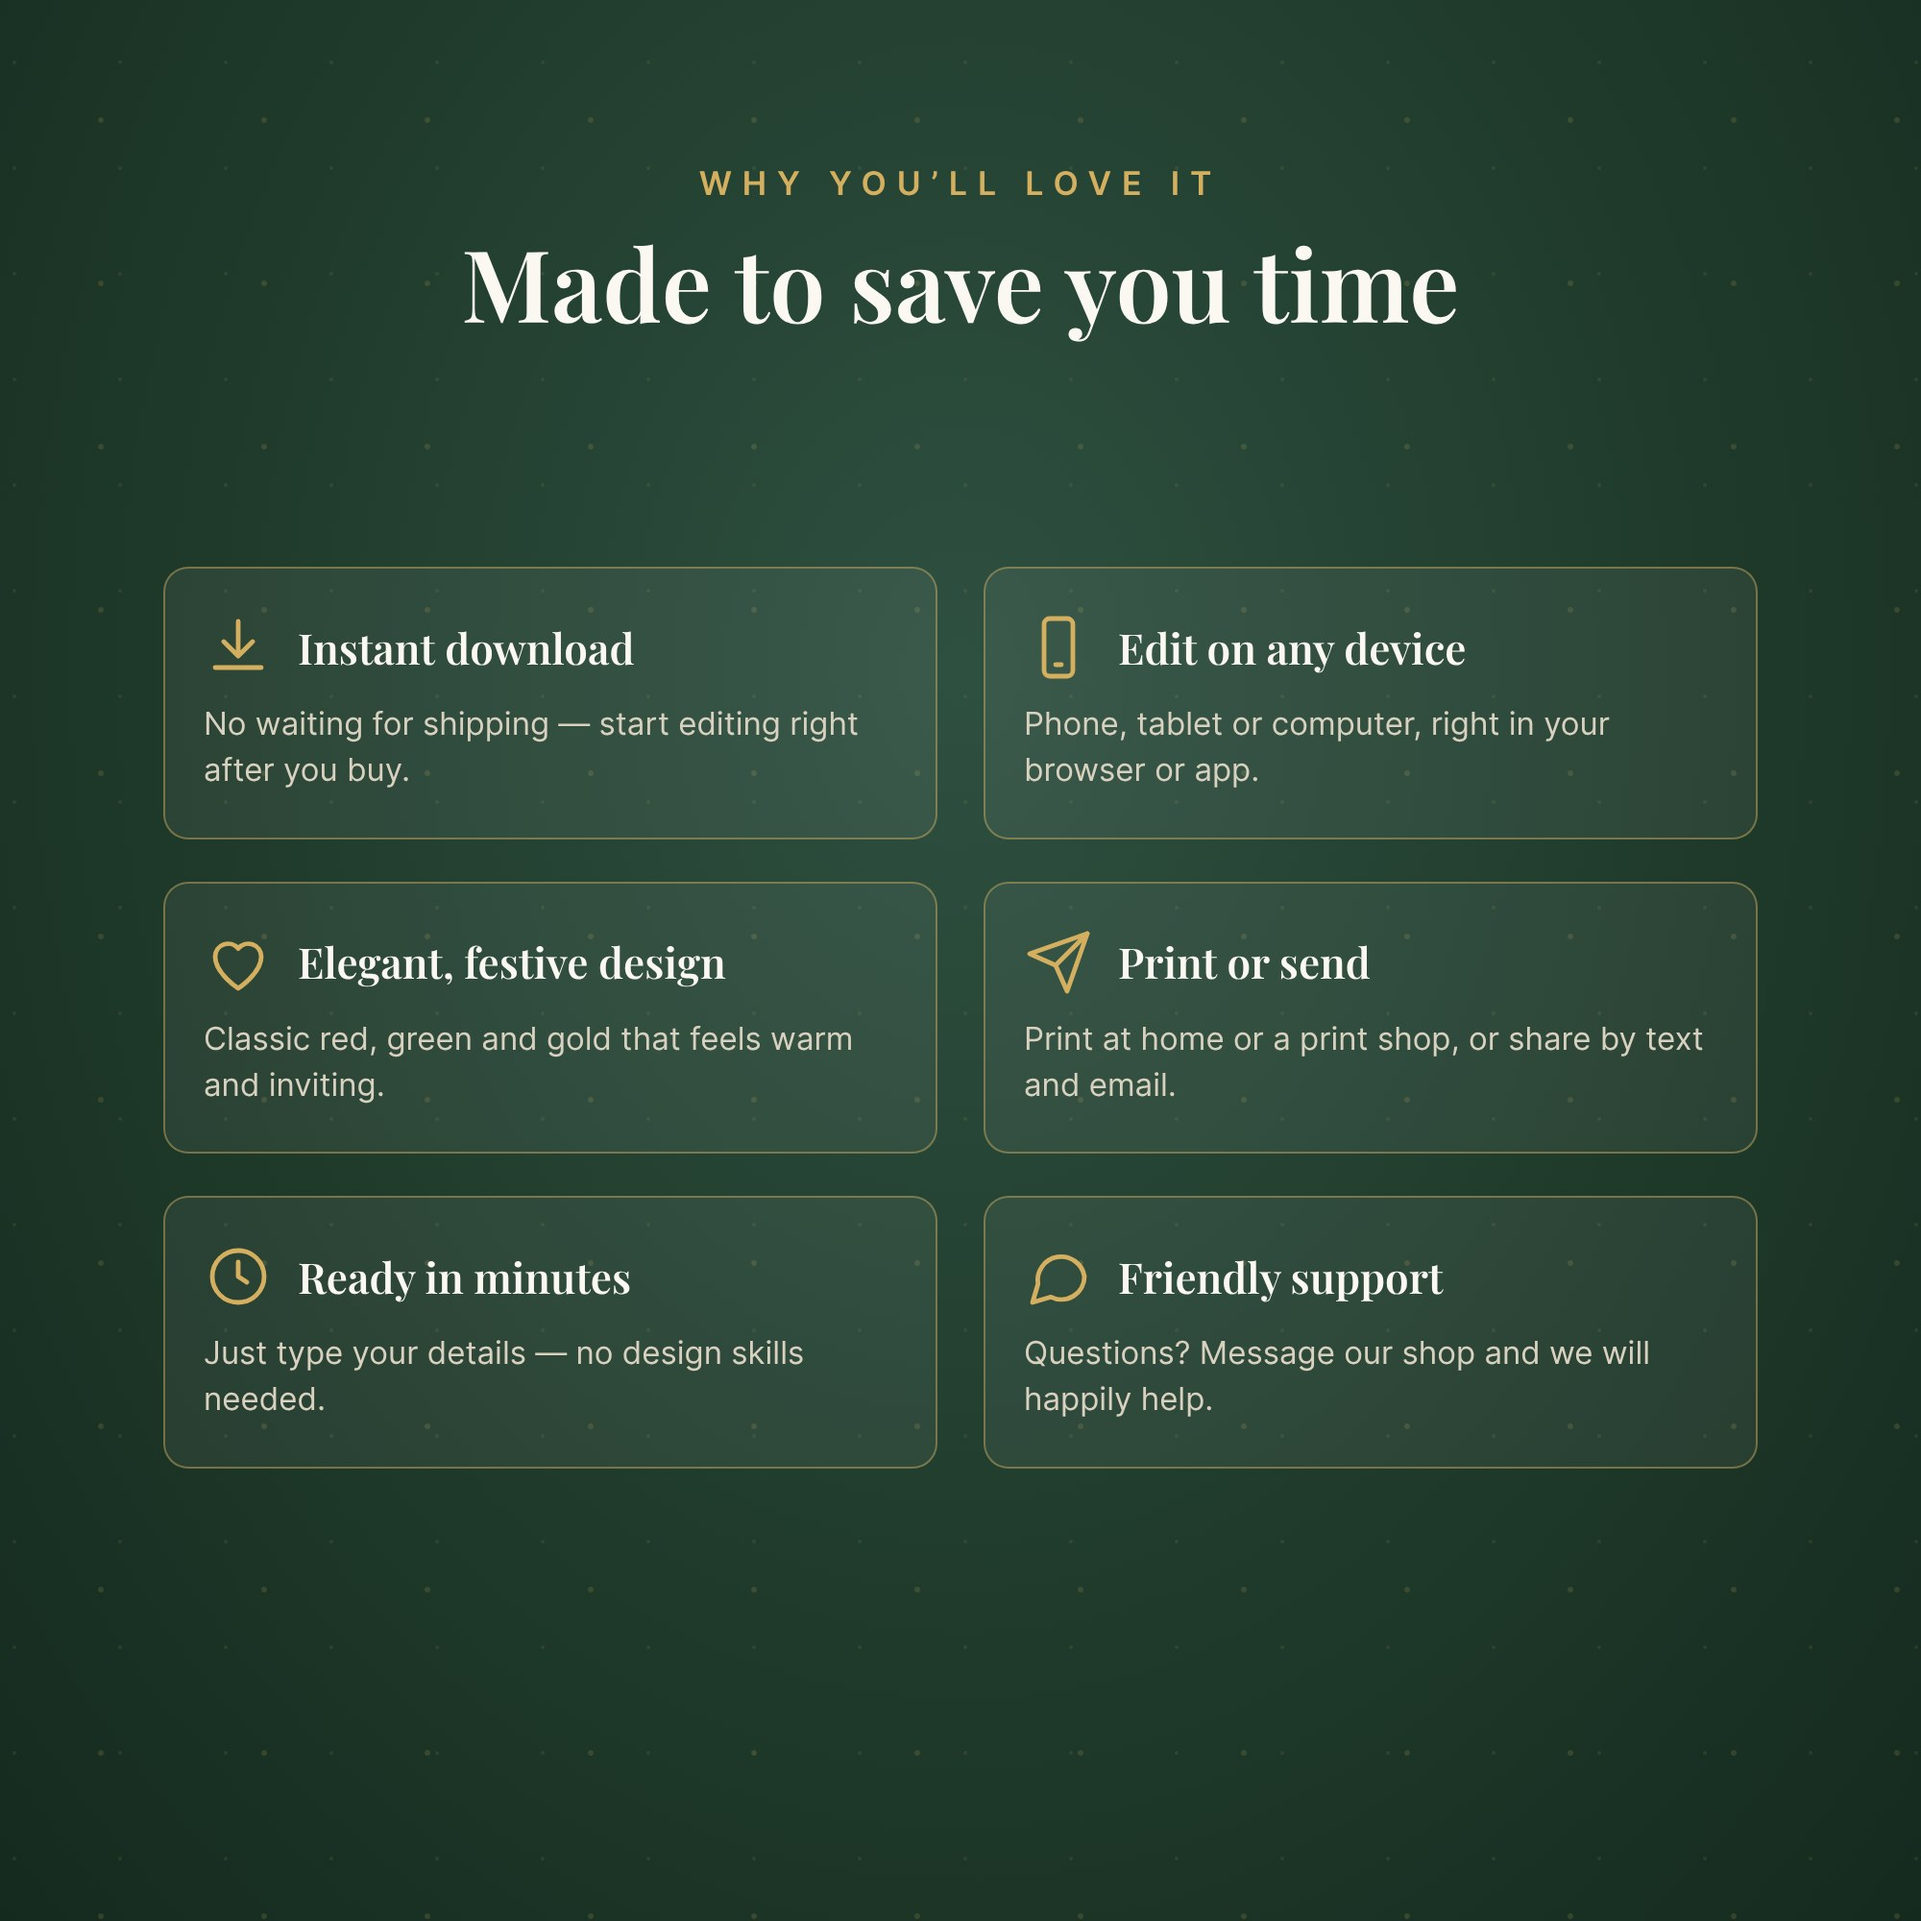
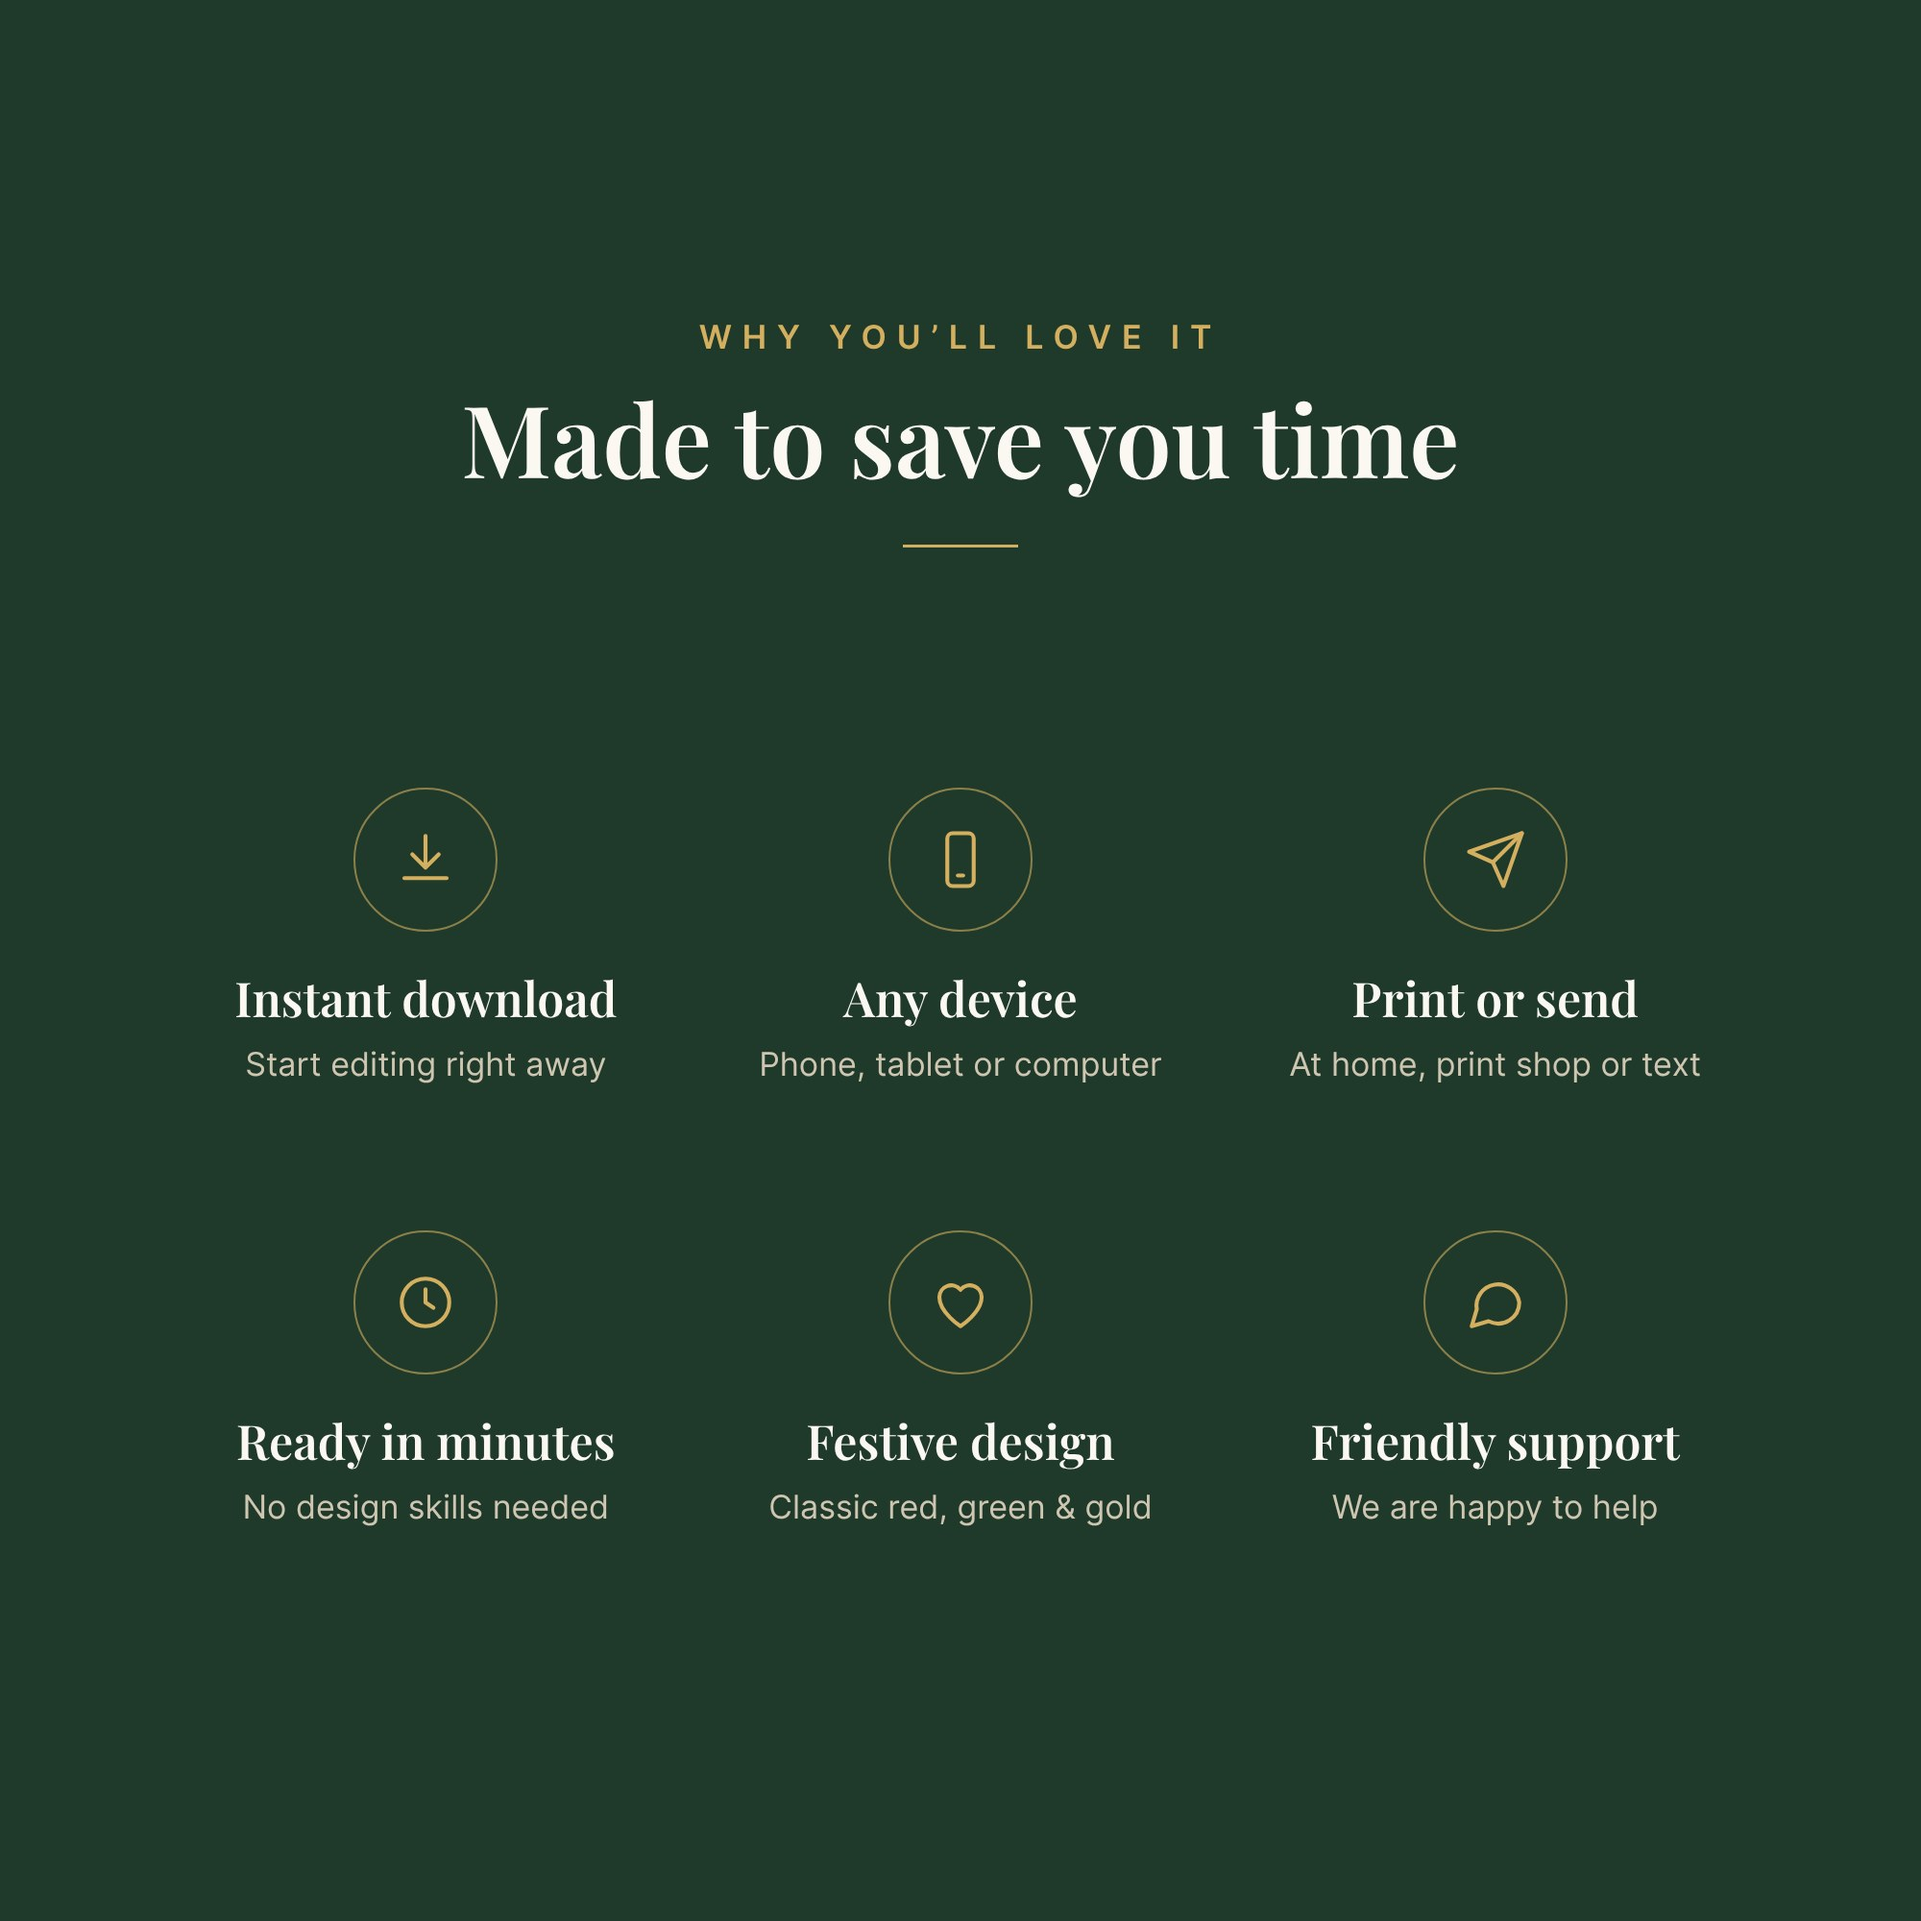
Simplify benefits listing image layout
Claude-Session: https://claude.ai/code/session_01JafYsmr22wAwcyzUhq2bVf

diff --git a/etsy-listing/alt-text.md b/etsy-listing/alt-text.md
@@ -13,7 +13,7 @@ Every entry is under 250 characters and has no double quotes, which Etsy can rej
 | 5 | 05-what-you-can-edit.jpg | Christmas invitation template with labels showing what you can edit: all text and wording, fonts and colors, date, time and address, RSVP details, elements, and your own photo or logo |
 | 6 | 06-whats-included.jpg | What is included with the digital Christmas invitation: a PDF with the template link, an editable 5 x 7 inch invitation, step-by-step instructions, and the option to print or send it digitally |
 | 7 | 07-how-it-works.jpg | Three steps to use the Christmas invite template: buy and download the PDF, open the template link in Canva, then edit and print or send. Digital download only, no physical item shipped |
-| 8 | 08-why-buy.jpg | Benefits of this holiday party invitation template: instant download, edit on any device, elegant festive design, print or send by text, ready in minutes, and friendly shop support |
+| 8 | 08-why-buy.jpg | Six benefits of this holiday party invitation template with gold icons on dark green: instant download, edit on any device, print or send by text, ready in minutes, festive red green and gold design, friendly support |
 
 ## Suggested listing title (under 140 characters)
 
